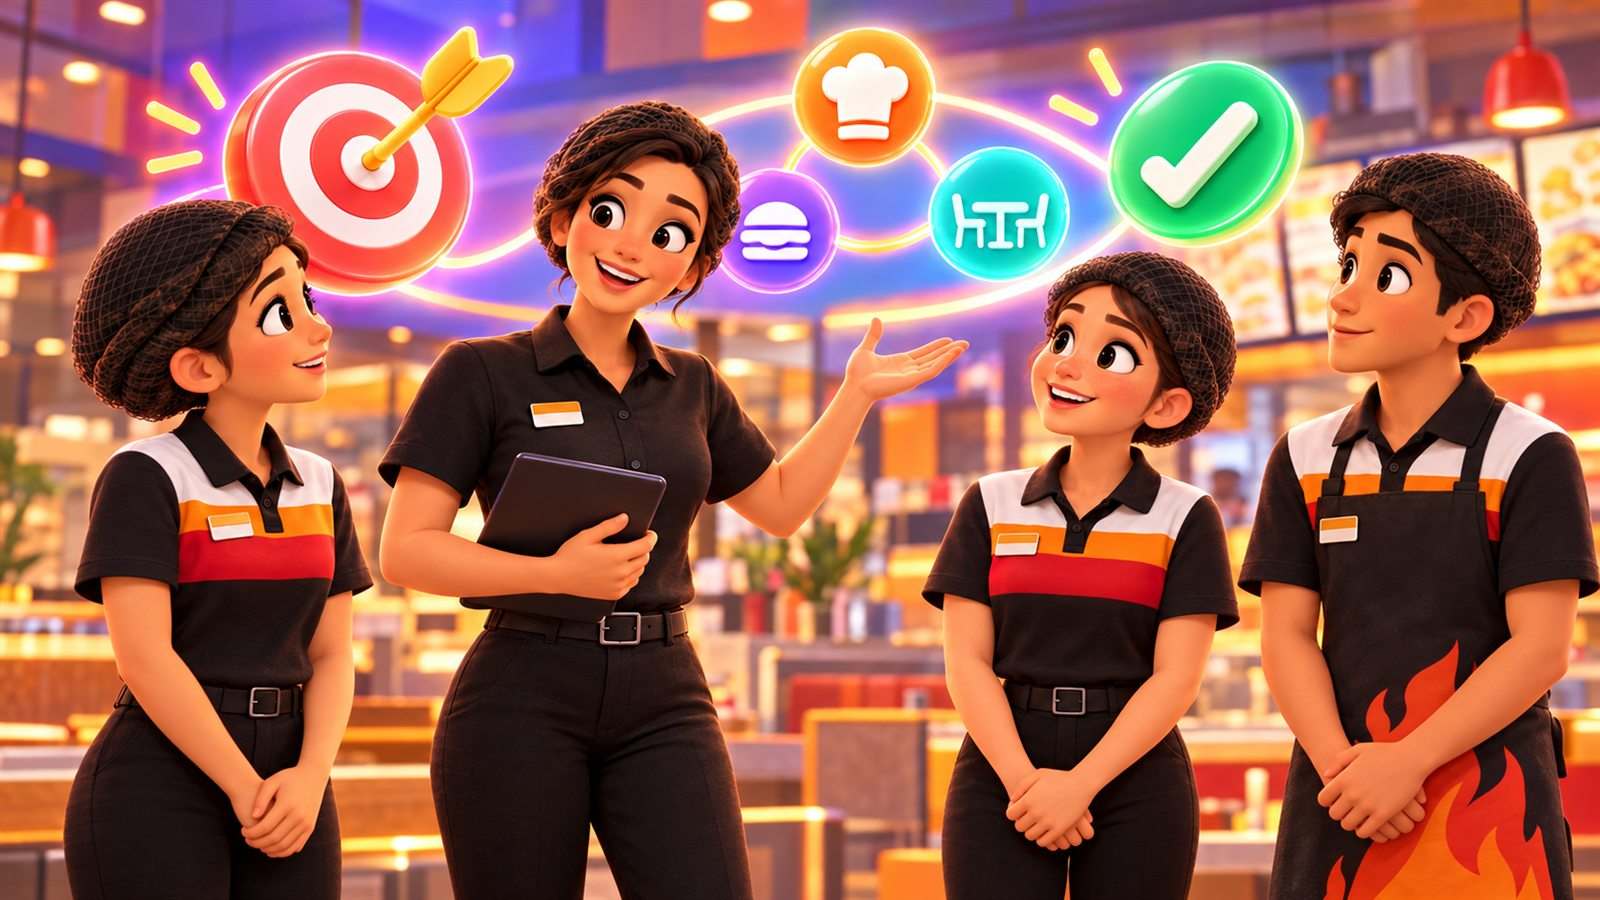
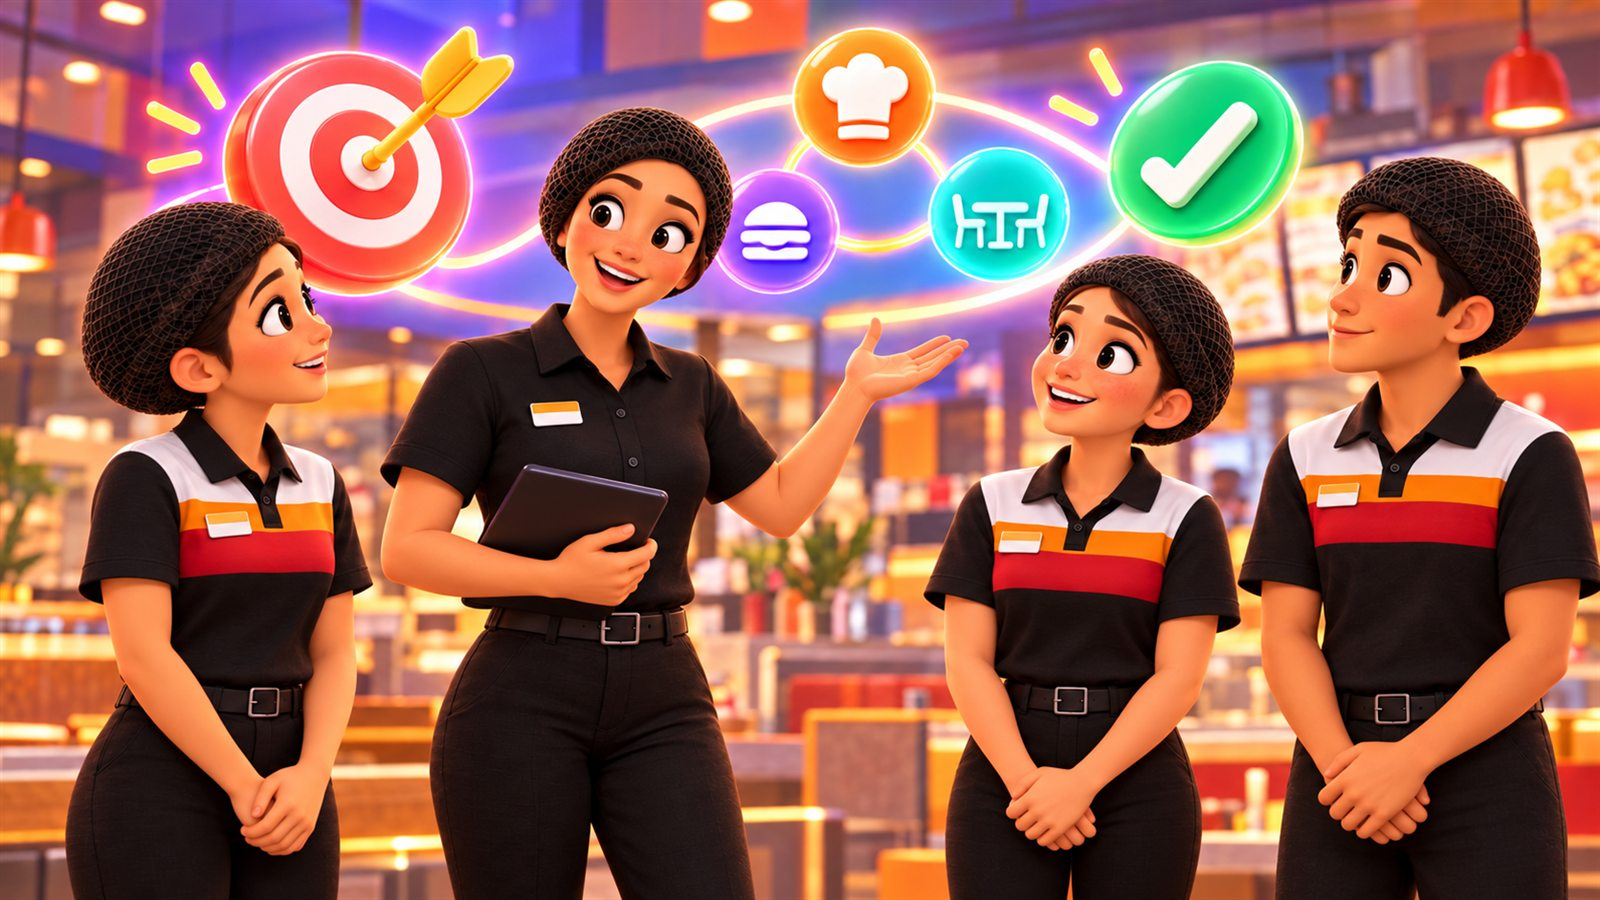
Refine course illustrations and layout

diff --git a/index.html b/index.html
@@ -7,7 +7,7 @@
   <meta name="description" content="Интерактивный курс о постановке целей и управлении их достижением в течение дня.">
   <title>Как управлять достижением целей на день</title>
   <link rel="stylesheet" href="css/kuds.css?v=5">
-  <link rel="stylesheet" href="style.css?v=45">
+  <link rel="stylesheet" href="style.css?v=46">
 </head>
 <body>
   <nav id="top-nav" aria-label="Навигация по курсу">
@@ -187,9 +187,6 @@
           <div><span>02</span><div><p><strong>Зал:</strong> поддерживать чистоту, помогать Гостям и завершить смену без негативных отзывов.</p><details class="question-guidance"><summary><span>Показать решение</span><small>Нажми</small><i aria-hidden="true">＋</i></summary><div class="question-guidance-answer"><p>Обозначь стандарты чистоты и гостевого опыта, регулярно наблюдай за залом и помогай сотруднику быстро реагировать на обращения.</p></div></details></div></div>
           <div><span>03</span><div><p><strong>Касса:</strong> каждый час выполнять свою долю выручки и не допускать негативных отзывов об обслуживании.</p><details class="question-guidance"><summary><span>Показать решение</span><small>Нажми</small><i aria-hidden="true">＋</i></summary><div class="question-guidance-answer"><p>Рассчитай почасовой ориентир, наблюдай за гостевым опытом и сверяй продажи с планом каждый час.</p></div></details></div></div>
         </div>
-        <figure class="ku-img fade-in course-scene" data-ku-img="images/goals-three-zones" data-ku-alt="Сотрудник кухни собирает бургер, а менеджер наблюдает за выполнением задачи" style="aspect-ratio:16/9">
-          <figcaption class="ku-img__ph"><b>3D-сцена: кухня, прилавок и зал работают на общую цель</b><code>images/goals-three-zones · 16:9</code></figcaption>
-        </figure>
         <div class="questions-result fade-in"><b>Теперь у каждой зоны есть понятный ориентир.</b><span>Рассчитаем один из них: сколько должен продать кассир за смену и за час.</span></div>
 
         <div class="calculation-card fade-in">

diff --git a/style.css b/style.css
@@ -972,7 +972,7 @@ button:focus-visible, input:focus-visible, textarea:focus-visible { outline-colo
 .course-hero-art > img {
   inline-size: 100%;
   block-size: 100%;
-  object-fit: contain;
+  object-fit: cover;
   object-position: center;
 }
 .course-hero-art.is-loaded .ku-img__ph { display: none; }
@@ -1043,9 +1043,9 @@ button:focus-visible, input:focus-visible, textarea:focus-visible { outline-colo
   background: var(--ku-surface);
   box-shadow: var(--ku-shadow-m);
 }
-.reason-slide { display: none; grid-template-columns: minmax(0, 1.08fr) minmax(16rem, 0.92fr); min-height: 25rem; }
+.reason-slide { display: none; grid-template-columns: minmax(0, 3fr) minmax(20rem, 2fr); }
 .reason-slide.active { display: grid; }
-.reason-slide img { inline-size: 100%; block-size: 100%; min-height: 25rem; object-fit: contain; object-position: center; background: var(--ku-brand-soft); }
+.reason-slide img { inline-size: 100%; block-size: auto; aspect-ratio: 16 / 9; object-fit: cover; object-position: center; background: var(--ku-brand-soft); }
 .reason-slide-copy { display: grid; align-content: center; gap: var(--ku-space-s); padding: clamp(1.25rem, 3vw, 2.5rem); }
 .reason-slide-copy h3,
 .reason-slide-copy p { margin: 0; }
